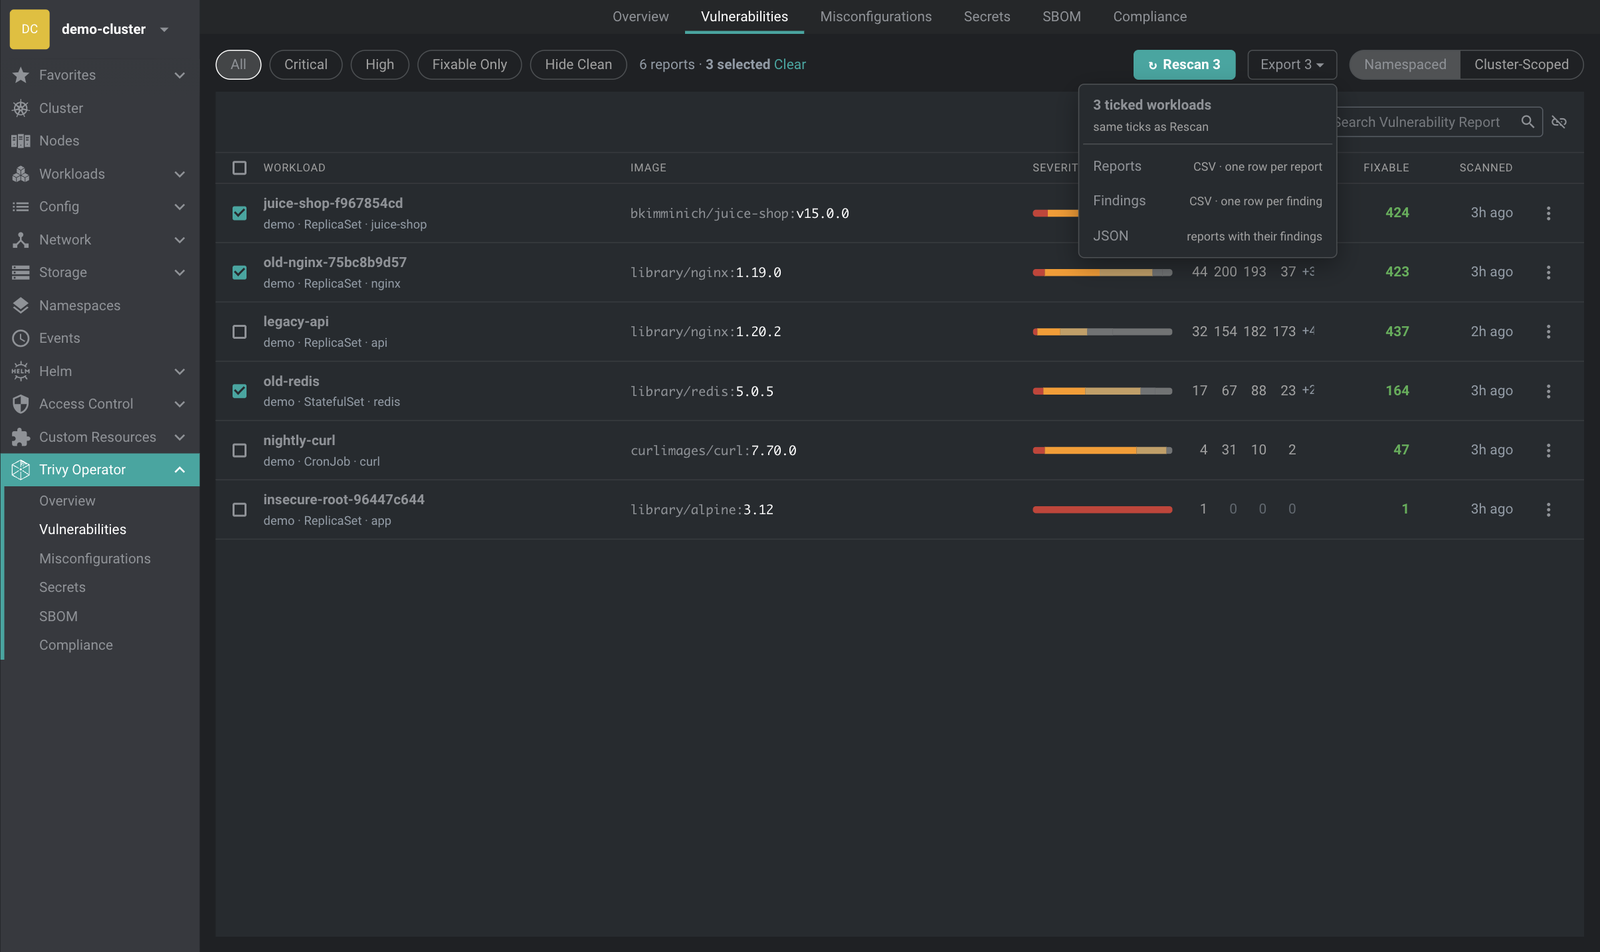
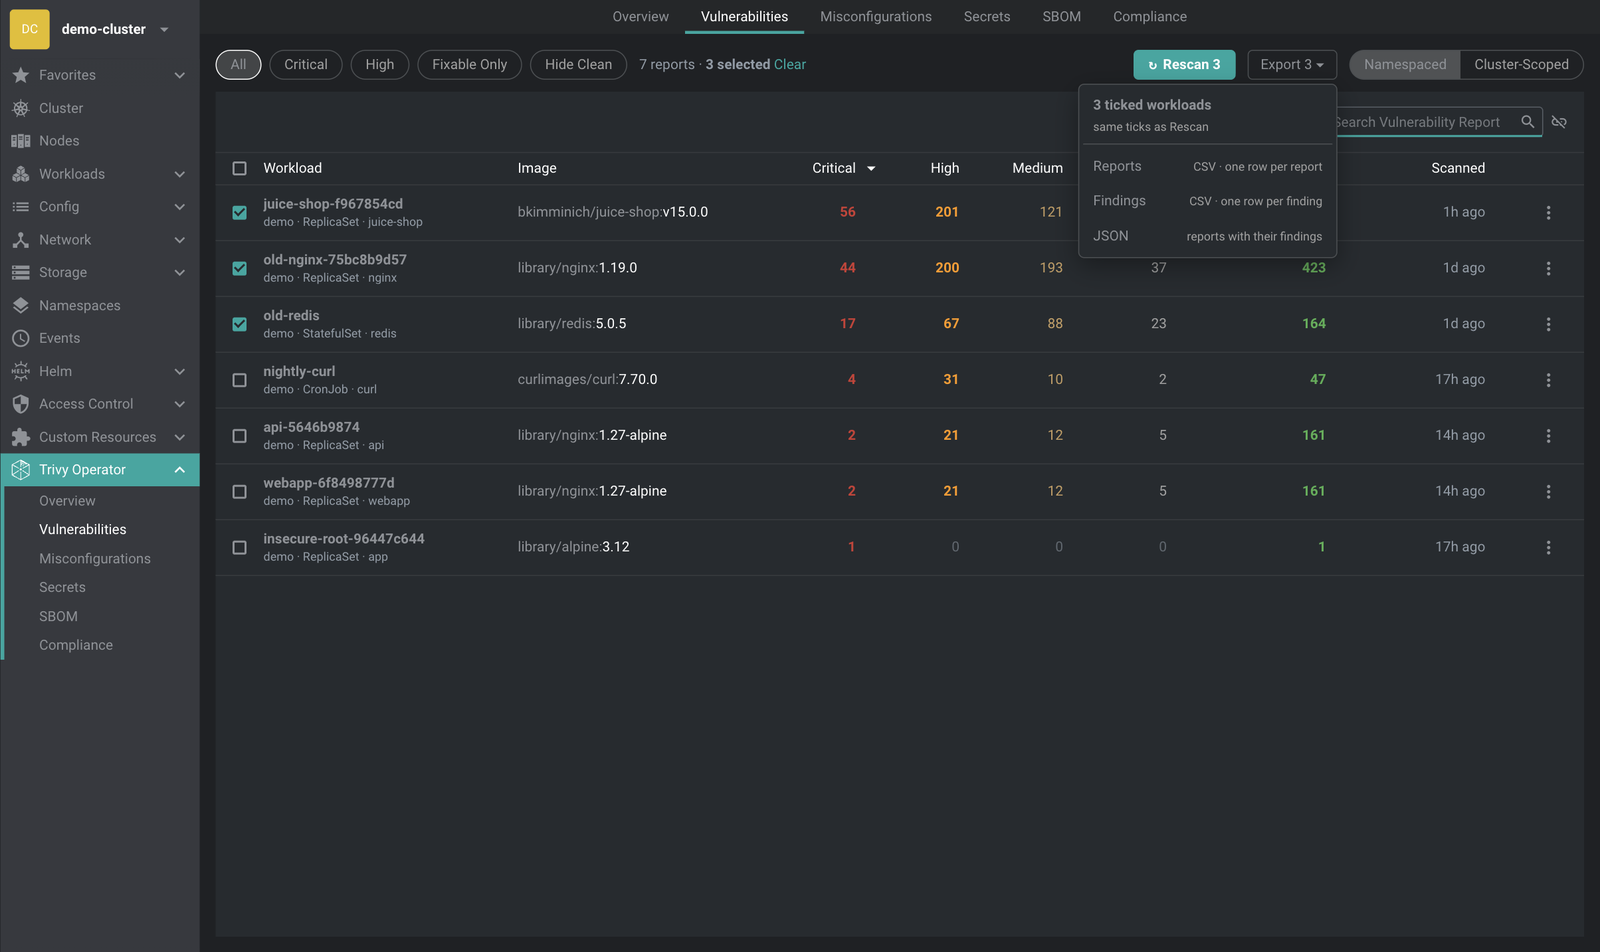
docs: retake the screenshots and describe the severity columns
The three README images show the 0.1.4 look: the Overview with its header bar, stacked Fix first and Compliance tables, and the Critical, High, Medium and Low columns with their colours. Taken in the isolated demo instance; each was checked against the app's own state (3 selected, 3 ticks).

diff --git a/README.md b/README.md
@@ -22,8 +22,8 @@ One **Trivy Operator** entry in the cluster sidebar with six pages:
 
 | Page | What it shows |
 |---|---|
-| **Overview** | A one-sentence headline, four tiles (vulnerabilities, exposed secrets, misconfigurations, compliance), the images where an upgrade pays off most, and where each compliance benchmark stands. |
-| **Vulnerabilities** | One row per workload container, with a severity bar, the number of findings an upgrade fixes, and the scan age. Switch between namespaced and cluster-scoped reports. |
+| **Overview** | A one-sentence headline, four tiles (vulnerabilities, exposed secrets, misconfigurations, compliance), the images where an upgrade pays off most, and a table of where each compliance benchmark stands. |
+| **Vulnerabilities** | One row per workload container, with its Critical, High, Medium and Low counts (each column sorts on its own), the number of findings an upgrade fixes, and the scan age. Switch between namespaced and cluster-scoped reports. |
 | **Misconfigurations** | Config audit, RBAC and infrastructure checks in three tabs. |
 | **Secrets** | Secrets found inside images, by rule and file. The matched text is never shown. |
 | **SBOM** | Software bills of materials. Loaded on request because they are large. Find a package by name, version or purl and see every workload that contains it. |
